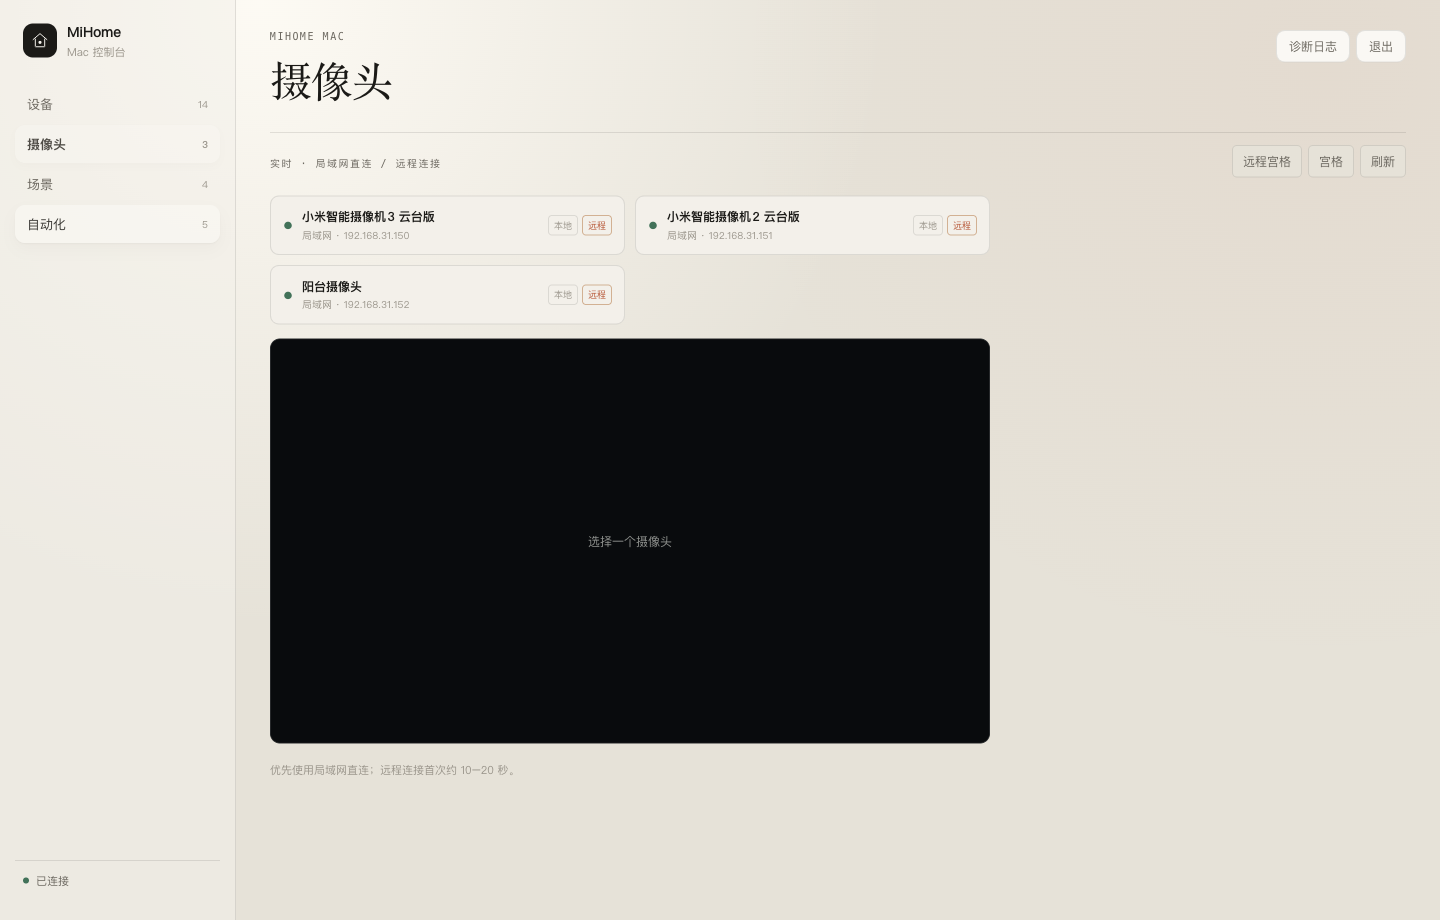
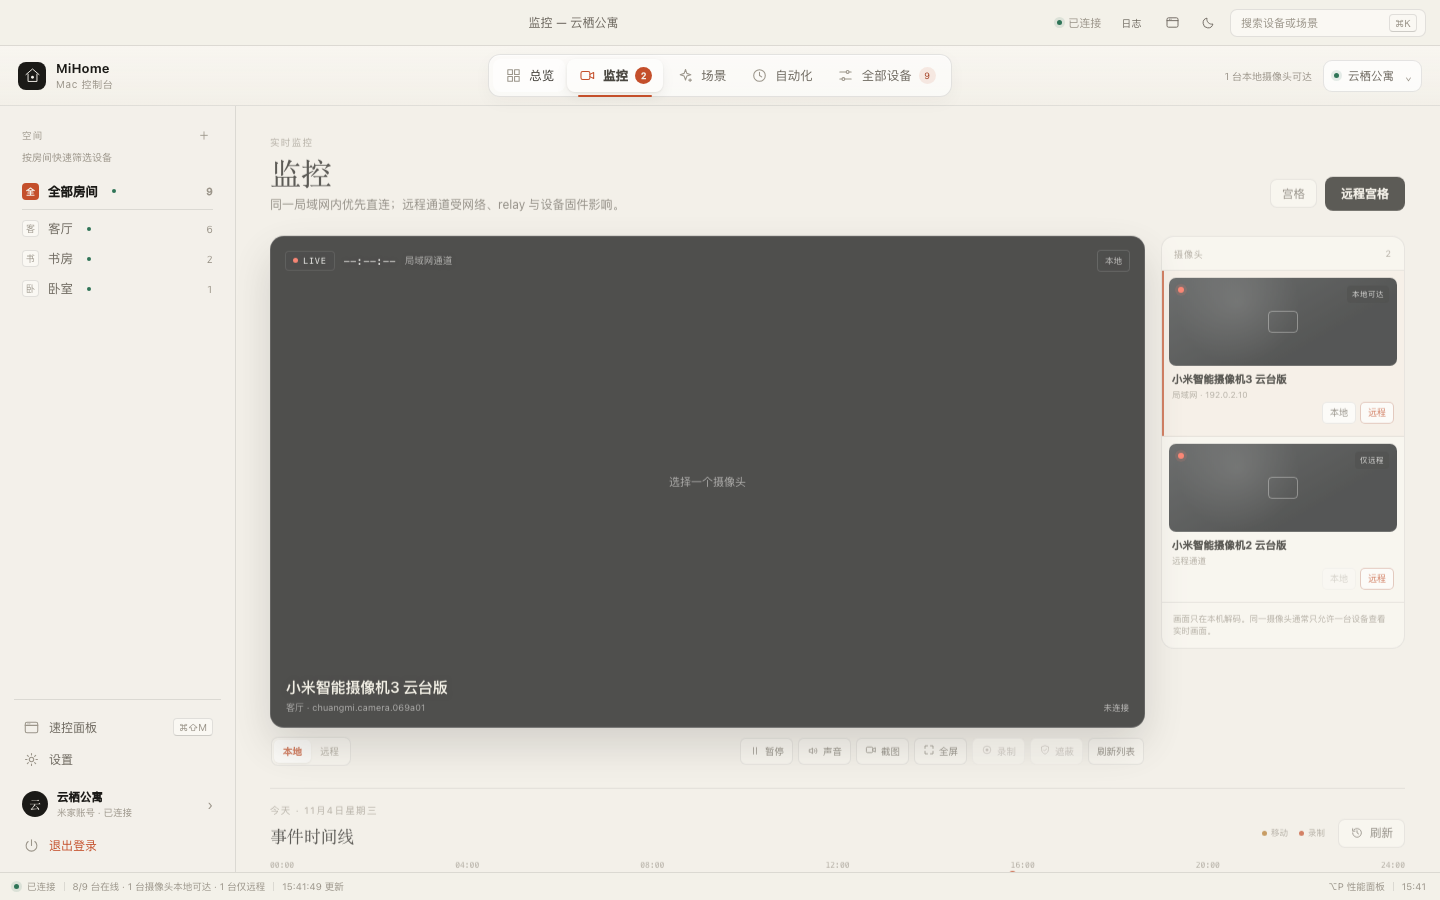
docs(ui): record screenshot regression and parity

diff --git a/docs/08-ui-design-parity.md b/docs/08-ui-design-parity.md
@@ -1,78 +1,140 @@
-# UI 设计对齐路线
+# UI 设计对齐与回归
 
-本文记录 MiHome Mac 的当前界面基线、终极设计目标，以及发布物料必须遵守的真实性要求。
+本文记录 MiHome Mac 实际桌面应用与交互原型之间的对齐状态、验证范围、已知差异和发布素材规则。
 
-## 一、两个基线
+> **状态：** 2026-11-04 已完成主要页面和交互外壳的第一轮 1:1 对齐。实际应用继续使用真实设备、场景、摄像头和自动化数据；原型演示数据不会进入正式界面。
+
+## 一、设计与实现基线
 
 | 基线 | 文件 | 用途 |
 |---|---|---|
-| 当前实现 | `desktop/ui/`、`docs/assets/app-*.png` | 用户当前可以运行和看到的界面 |
-| 终极设计目标 | `prototype/index.html`、`docs/02-product-design.md`、`docs/assets/shot-*.jpg` | 后续界面重构的视觉与交互基准 |
+| 交互原型 | `prototype/index.html`、`prototype/app.css`、`prototype/app.js` | 页面结构、视觉层级、控件尺寸和动效的唯一设计源 |
+| 产品规范 | `docs/02-product-design.md` | 信息架构、视觉系统、性能预算和产品边界 |
+| 实际界面 | `desktop/ui/`、`docs/assets/app-*-demo.png` | 当前可运行的 Tauri 应用界面与回归截图 |
 
-`prototype/` 是可离线打开的高保真设计原型，不是已经完成的 Tauri 应用截图。当前桌面端已经具备真实设备、场景、摄像头和诊断日志能力，但视觉层级、留白、字体、信息密度和动效仍未与设计稿完全一致。
+实际应用是 Web 技术渲染的 Tauri 窗口，但视觉令牌、页面网格、图标、字体、间距和主要组件直接复用原型规范。截图中的设备、场景和状态来自离线 Mock，只用于 UI 回归，不代表某个真实账号。
 
-## 二、终极目标
+## 二、已完成对齐
 
-终极目标是让实际桌面应用逐步达到设计稿定义的风格，而不是让设计稿停留在独立原型中：
+### 应用外壳
 
-1. 保留当前已经验证过的功能和数据能力，不用视觉重构破坏真实链路。
-2. 以 `docs/02-product-design.md` 的信息架构、窗口尺寸、色彩、字体、图标和动效规范为准。
-3. 页面结构、视觉层级和关键交互向 `prototype/index.html` 对齐，同时优先遵守 macOS 的可访问性、键盘操作和窗口行为。
-4. 允许实现因平台能力或设备兼容性做必要调整，但调整必须记录在本文，不能悄悄偏离设计。
-5. 对齐完成前，任何对外截图、演示视频和商店素材都必须明确区分“当前实现”和“设计目标”。
+- macOS overlay 标题栏，系统交通灯由 Tauri 绘制，网页只负责标题和右侧操作。
+- 顶部一级导航：总览、监控、场景、自动化、全部设备；设置保留在侧栏底部。
+- 顶部家庭切换、本地摄像头可达提示、搜索入口和诊断日志入口。
+- 标题栏速控、主题切换、菜单栏速控浮层和实时性能面板。
+- 左侧空间导航、在线状态点、账号信息和退出登录。
+- 底部连接状态栏、更新时间与快捷键导航。
 
-## 三、对齐顺序
+### 总览
 
-### 阶段 1：设计令牌与应用外壳
+- 原型式问候、日期、家庭名称和实时统计。
+- 真实温湿度读数与轻量 sparkline；没有读数时显示可解释的在线设备数。
+- 在线设备、本地监控、定时任务三个真实指标。
+- 摄像头预览入口、手动场景横条和按房间分组的设备列表。
 
-- 统一颜色、字体、圆角、间距、阴影和控件状态，消除当前功能页与设计稿之间的视觉分裂。
-- 对齐侧栏宽度、标题栏、页面标题、状态栏和窗口最小/默认尺寸。
-- 保留 `prefers-reduced-motion`、键盘焦点和系统高对比度支持。
+### 全部设备
 
-### 阶段 2：页面信息架构
+- `全部 / 本地直连 / 云端 / 已关闭` 筛选。
+- 名称、型号、房间搜索。
+- 原型表头：设备、房间、连接、状态、操作。
+- 摄像头本地/远程连接标签，离线设备降级显示。
+- 行点击打开真实能力检查器，摄像头提供直接进入监控的播放按钮。
 
-- 设备页对齐总览与设备检查器的层级，明确选中态、离线态和可写能力。
-- 摄像头页对齐单路、宫格、控制条、云台和错误恢复状态。
-- 场景与自动化页统一卡片、表单、空状态和执行反馈。
-- 登录页对齐二维码、扫码状态、隐私说明和错误提示。
+### 监控
 
-### 阶段 3：动效与细节
+- 单画面、宫格和远程宫格入口。
+- 本地/远程通道切换，以及暂停/继续、声音、截图、全屏和刷新。
+- 视频画面上的云台方向盘；只有远程通道建立后才可用，039a01 机型自动隐藏。
+- 摄像头列表、型号信息、连接路径和真实错误恢复提示。
+- 事件时间线结构已落地；厂商接口未返回事件列表时显示真实空状态。
+- 录制与隐私遮蔽入口保留，但在当前接口不支持时明确禁用并给出原因。
 
-- 按产品设计文档实现页面切换、检查器滑出、状态切换和 Toast 动效。
-- 减少装饰性动画，优先保证摄像头播放、控制操作和长列表滚动流畅。
-- 对低性能机器、减少动态效果和窄窗口分别验证。
+### 场景、自动化与设置
 
-### 阶段 4：视觉回归
+- 场景卡片、执行反馈和刷新。
+- 定时任务新增、启停、删除和按星期执行。
+- 主题、列表密度、诊断日志导出、版本和账号信息。
+- 1440、1180、980 和 720 宽度下分别完成逐页检查。
+- 路由器、网关等设备只把明确的整机电源属性当作开关；指示灯和子功能开关不会被误判为设备关闭。
+- 设备在线状态每 15 秒静默同步，窗口重新聚焦或从后台恢复时立即同步；离线恢复后自动重新读取该设备属性。
 
-- 在 1440 × 900 默认窗口和最小窗口下逐页对比设计稿。
-- 对齐前后分别保存实际截图，检查信息层级、截断、溢出和对齐误差。
-- 功能回归必须覆盖登录、设备控制、场景执行、自动化、摄像头本地/远程播放和诊断日志导出。
+### 登录与交互约束
 
-## 四、当前页面与目标设计对应
+- 原型式左右分栏登录页、二维码区域、扫码状态和隐私说明。
+- 登录、退出、恢复登录和家庭切换均有自动化回归。
+- 应用内全局禁用文本选择、拖拽、复制、剪切和右键菜单；`::selection` 强制透明。
 
-| 当前页面 | 当前实现 | 目标设计 |
-|---|---|---|
-| 设备 | 设备卡片网格与右侧属性面板 | 总览、房间分组、环境读数、场景横条与设备检查器 |
-| 摄像头 | 设备选择、单路预览与控制区 | 单路监控、宫格、云台、事件时间线、明确的恢复状态 |
-| 场景 | 手动场景卡片与执行按钮 | 卡片、最近执行时间、失败设备数与统一反馈 |
-| 自动化 | 本机定时任务表单和列表 | 时间、目标、星期、启停状态与原生表单体验 |
-| 登录 | 扫码与本地会话 | 二维码、倒计时、扫码状态、隐私说明与演示入口 |
+## 三、验证结果
 
-摄像头功能受设备型号、固件和网络影响，不能为了视觉一致性伪造画面、延迟或在线状态。实际能力以 [摄像头通道设计](06-camera-product-channel.md) 和 [当前状态](05-rust-base.md) 为准。
+### 自动化 UI 回归
 
-## 五、发布素材验收
+```bash
+cd desktop
+UI_REGRESSION_ROUNDS=10 node tests/ui-regression.mjs
+```
 
-发布前逐项确认：
+2026-11-04 结果：
 
-- README、商店页、小红书、抖音只使用当前实际应用截图或录屏。
-- 使用离线演示数据时，画面或说明中标注“实际界面 · 演示数据”。
-- 原型稿只能标注为“设计目标”或“交互原型”，不能与已完成功能混剪。
-- 不在素材中展示真实二维码、账号信息、设备 Token、家庭画面或未脱敏日志。
-- 不宣称绝对零延迟；本地和远程摄像头统一使用“约 1 秒级稳定播放，首次连接受网络与 relay 状态影响”的表述。
-- 素材中的功能必须在当前实现中存在；计划中的设计能力只能放在明确标注的路线图里。
+```json
+{
+  "ok": true,
+  "rounds": 10,
+  "checks": 1449,
+  "screenshots": 206,
+  "maxInteractionMs": 33.2,
+  "domNodes": 1049,
+  "heapMB": 3.47,
+  "runtimeErrors": [],
+  "failures": []
+}
+```
 
-只有实际应用截图与设计稿的布局、层级和关键交互完成对齐后，才能把设计稿截图作为最终产品效果图使用。
+覆盖内容：
 
-## 六、待确认需求
+- 10 轮页面导航、房间筛选、设备详情、设备开关、场景执行、自动化新增/启停/删除、主题、密度、命令面板、速控浮层和性能面板。
+- 每轮生成 16 张核心功能截图；前三轮额外覆盖房间筛选、设备搜索、本地筛选、离线恢复和摄像头本地/远程/暂停状态，并逐页检查四组窗口尺寸。
+- 截图存入 `desktop/tests/artifacts/`（可用 `UI_REGRESSION_OUTPUT` 改目录），同时生成 `manifest.json`，逐张校验 PNG、像素尺寸和文件大小。
+- 3 轮路由器“在线但指示灯关闭”状态校验，避免把子功能状态误判成整机开关。
+- 3 轮设备离线→在线自动同步，覆盖窗口重新聚焦后的静默刷新。
+- 3 轮本地摄像头、远程摄像头、云台命令、暂停/继续和活动时间线。
+- 3 轮退出、重新扫码登录和家庭切换。
+- 3 轮逐页检查 1440 × 900、1180 × 800、980 × 680、720 × 900 四组窗口尺寸。
+- 每页标题、可见交互节点、横向溢出、按钮裁切和登录卡片边界。
+- 未捕获异常、`console.error` 和运行时错误捕获。
 
-- **顶部一级导航栏：** 当前产品文档、交互原型和桌面实现均未定义该需求。现有规范是“46 pt 窗口标题栏 + 左侧栏一级导航”；顶部只显示页面标题、诊断日志和退出操作。若改为顶部一级导航，需要先确认它是替换左侧一级导航、与左侧栏并存，还是仅作为页面内二级导航，并补充窗口窄屏、房间入口、快捷键和选中态的验收标准。
+### 单元与静态检查
+
+```bash
+npm --prefix desktop run check
+npm --prefix desktop test
+cargo clippy --manifest-path desktop/src-tauri/Cargo.toml --all-targets -- -D warnings
+```
+
+结果：38/38 单元测试通过，Clippy 无警告。
+
+### 构建验证
+
+```bash
+npm --prefix desktop run build
+```
+
+当前 x86_64 构建成功，DMG 为 `MiHome Mac_1.0.0_x64.dmg`，约 11.68 MiB。已挂载 DMG 验证应用结构、版本 `1.0.0`、`x86_64` 主程序和 Finder 安装布局。
+
+## 四、已知差异与边界
+
+以下差异不是视觉遗漏，而是不能伪造的接口或平台边界：
+
+1. 米家第三方接口没有向本项目开放云存储事件列表和录像回放入口，时间线显示空状态。
+2. 当前接口未开放手动录制和隐私遮蔽，按钮保留在原型位置但明确禁用。
+3. 摄像头实际画质、首帧时间和稳定性由设备型号、固件、局域网、relay 和网络质量决定，不能保证绝对零延迟。
+4. 真实设备名称、数量、房间和在线状态与原型演示数据不同；界面只展示账号实际返回值。
+5. macOS 交通灯只在真实 Tauri 窗口显示，浏览器 UI 回归不会模拟系统红黄绿按钮。
+
+## 五、发布素材规则
+
+- README、商店页、小红书、抖音和 X 只使用当前实际应用截图或录屏。
+- 使用离线 Mock 数据时，画面或说明必须标注“实际界面 · 演示数据”。
+- 原型截图只能标注为“交互原型”或“设计目标”，不能与已完成功能混剪。
+- 不展示真实二维码、账号信息、设备 Token、家庭画面或未脱敏日志。
+- 不宣称“零延迟”；统一表述为“约 1 秒级稳定播放，首次连接受网络与 relay 状态影响”。
+- 禁用能力只能在路线图中描述，不能在发布素材中展示为可用功能。

diff --git a/README.md b/README.md
@@ -10,11 +10,11 @@
 
 > 本项目与小米公司没有隶属或官方关联。项目使用非公开、非官方接口，接口和协议可能随服务端更新而变化，请自行评估使用风险。
 
-> **界面说明：** 下方截图来自当前桌面应用的真实界面，使用离线演示数据。`prototype/` 与 `docs/assets/shot-*.jpg` 是后续要对齐的终极设计目标，不代表当前已经实现。对齐范围和验收标准见 [UI 设计对齐路线](docs/08-ui-design-parity.md)。
+> **界面说明：** 下方截图来自当前桌面应用的真实界面，使用离线演示数据。桌面端现已按 `prototype/index.html` 完成顶部一级导航、总览、监控、场景、自动化、全部设备、设置与登录页的视觉对齐；米家接口未开放的能力会明确禁用或显示空状态，不会用原型数据伪造结果。验收记录见 [UI 设计对齐路线](docs/08-ui-design-parity.md)。
 
-![当前桌面应用：设备页](docs/assets/app-devices-demo.png)
+![当前桌面应用：总览页](docs/assets/app-overview-demo.png)
 
-<sub>当前桌面应用 · 设备页（离线演示数据）。界面尚未达到设计稿效果，视觉对齐是后续目标。</sub>
+<sub>当前桌面应用 · 总览页（离线演示数据）。视觉、信息层级和顶部导航已按交互原型落地。</sub>
 
 ## 下载
 
@@ -37,20 +37,27 @@ macOS 1.0.0 提供两个独立安装包：
 - 远程画面支持音频监听，声音开关不会重建已建立的视频通道
 - 播放失败时自动切换兼容模式，减少黑屏和长时间等待
 - 远程宫格逐路出画，较快的摄像头不再等待较慢的一路
-- 支持监控宫格、画面控制、云台控制和单步云台操作
+- 支持监控宫格、暂停/继续、声音、截图、全屏、云台控制和单步云台操作
 - 设备卡片提供常用指标、开关和快捷控制，摄像头设置按型号中文化
+- 设备在线状态自动同步，窗口重新聚焦或从后台恢复时立即刷新；路由器不会把指示灯状态误当成整机电源
 - 内置独立诊断日志，可导出脱敏汇总并定位取流失败
 - 附带可离线打开、无需真实账号的设计目标原型（非当前应用界面）
+- 应用窗口内全局禁用文本选择、拖拽、复制、剪切和右键菜单
 
 ![当前桌面应用：摄像头页](docs/assets/app-cameras-demo.png)
 
-<sub>当前桌面应用 · 摄像头页（离线演示数据）。发布素材只使用当前实际界面，不能混用设计目标稿。</sub>
+<sub>当前桌面应用 · 监控页（离线演示数据）。事件时间线在厂商接口没有事件数据时显示真实空状态。</sub>
+
+![当前桌面应用：全部设备页](docs/assets/app-devices-demo.png)
+
+<sub>当前桌面应用 · 全部设备页（离线演示数据）。筛选、搜索、连接路径和设备状态均来自真实渲染流程。</sub>
 
 ## 界面状态与设计目标
 
-- **当前界面基线：** `desktop/ui/` 和本页实际应用截图，代表用户今天能够运行到的功能与视觉。
-- **终极设计目标：** `prototype/index.html`、`docs/02-product-design.md` 和 `docs/assets/shot-*.jpg` 定义目标信息架构、布局、字体、配色和动效；当前实现会分阶段向这套设计稿对齐。
-- **发布素材规则：** 在完成对齐前，README、商店页、小红书和抖音素材必须使用实际应用截图或录屏，并标注“实际界面 · 演示数据”；不得把原型稿当作已实现效果展示。
+- **当前界面基线：** `desktop/ui/` 和本页实际应用截图，已按 `prototype/index.html` 完成主要页面与外壳对齐。
+- **设计源文件：** `prototype/index.html`、`docs/02-product-design.md` 和 `docs/assets/shot-*.jpg` 仍是布局、字体、配色和交互的源规范。
+- **接口边界：** 录制、隐私遮蔽、云端录像事件等米家未开放的能力会在界面中禁用或显示空状态，不用演示数据冒充真实结果。
+- **发布素材规则：** README、商店页、小红书和抖音素材必须使用当前实际应用截图或录屏，并标注“实际界面 · 演示数据”；不能把尚未接入的能力描述为已完成。
 
 ## 当前状态
 
@@ -215,7 +222,10 @@ cargo test --manifest-path core/Cargo.toml
 cargo check --manifest-path desktop/src-tauri/Cargo.toml
 npm --prefix desktop run check
 npm --prefix desktop test
+UI_REGRESSION_ROUNDS=10 npm --prefix desktop run test:ui
 ```
+
+UI 回归默认逐轮生成页面和关键功能截图，并写入 `desktop/tests/artifacts/manifest.json`；设置 `UI_REGRESSION_SCREENSHOTS=0` 可跳过截图。
 
 请勿提交登录凭据、Cookie、设备 Token、完整云端响应或包含个人设备信息的日志。
 

diff --git a/CHANGELOG.md b/CHANGELOG.md
@@ -1,5 +1,18 @@
 # Changelog
 
+## Unreleased
+
+- 实际 Tauri 界面按交互原型重做顶部导航、总览、监控、场景、自动化、全部设备、设置和登录页
+- 全部设备页增加本地/云端/关闭筛选、搜索、原型表格和真实设备检查器
+- 监控页增加视频云台、暂停/继续、声音、截图、全屏、真实空事件时间线和接口不支持项的禁用说明
+- 标题栏增加速控、主题切换、菜单栏速控浮层和实时性能面板
+- 设备在线状态每 15 秒静默同步，窗口聚焦或从后台恢复时立即刷新；离线恢复后重新读取设备属性
+- 修复路由器指示灯关闭时被误判为整机“已关闭”的状态映射
+- 风扇灯等设备的模式枚举补齐中文，并过滤无法可靠翻译的“未知选项”按钮
+- 全局禁止文本选择、拖拽、复制、剪切和右键菜单
+- 增加浏览器 CDP UI 回归，10 轮截图覆盖全部页面与关键功能，并校验 1440/1180/980/720 响应式布局
+- 更新 README 实际界面截图与 UI 对齐、验证和接口边界文档
+
 ## 1.0.0 - 2026-11-03
 
 首个 GitHub Release 版本。

diff --git a/docs/02-product-design.md b/docs/02-product-design.md
@@ -2,7 +2,7 @@
 
 本文写 MiHome Mac 的产品结构、交互规则、视觉系统、应用架构与性能预算。原型在 `prototype/`，截图在 `docs/assets/`。
 
-> **状态说明：** `prototype/index.html` 与 `docs/assets/shot-*.jpg` 是终极设计目标和交互原型，不是当前桌面应用的实现截图。当前实际界面、设计对齐顺序和发布素材规则见 [UI 设计对齐路线](08-ui-design-parity.md)。对外展示必须区分两者，避免把目标效果误认为已经交付。
+> **状态说明：** `prototype/index.html` 仍是交互与视觉源规范；桌面端已完成主要页面 1:1 对齐，实际界面截图见 `docs/assets/app-*-demo.png`。验证范围、已知接口边界和发布素材规则见 [UI 设计对齐与回归](08-ui-design-parity.md)。
 
 “MiHome Mac”是内部代号。正式发布前要改名并做商标检索，详见 `01-repo-analysis.md` 的许可证与合规一节。
 
